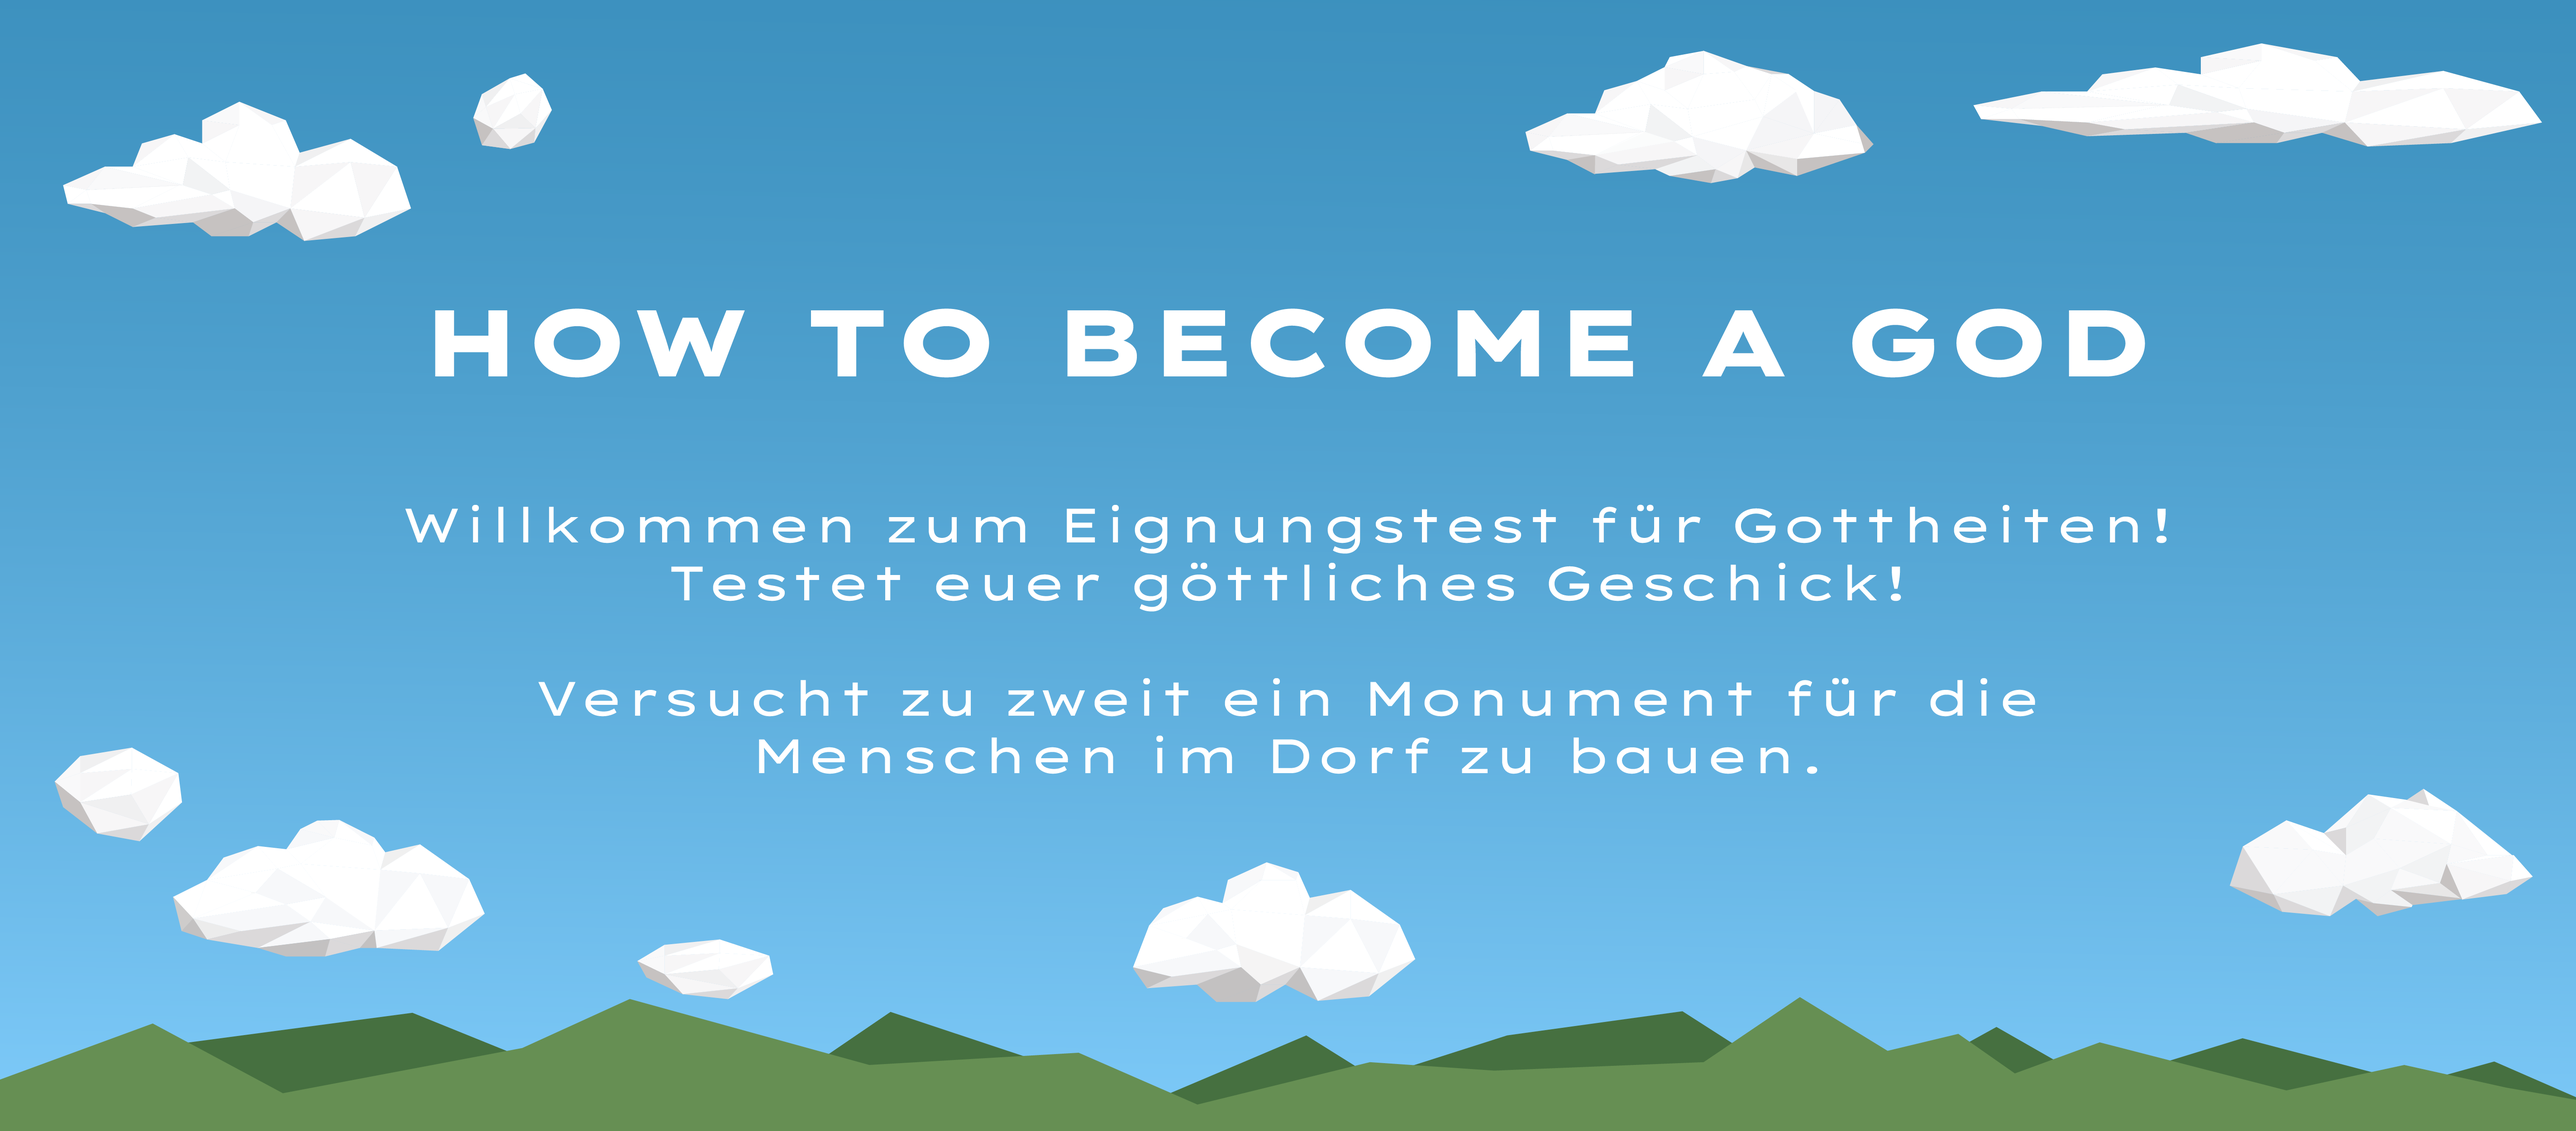
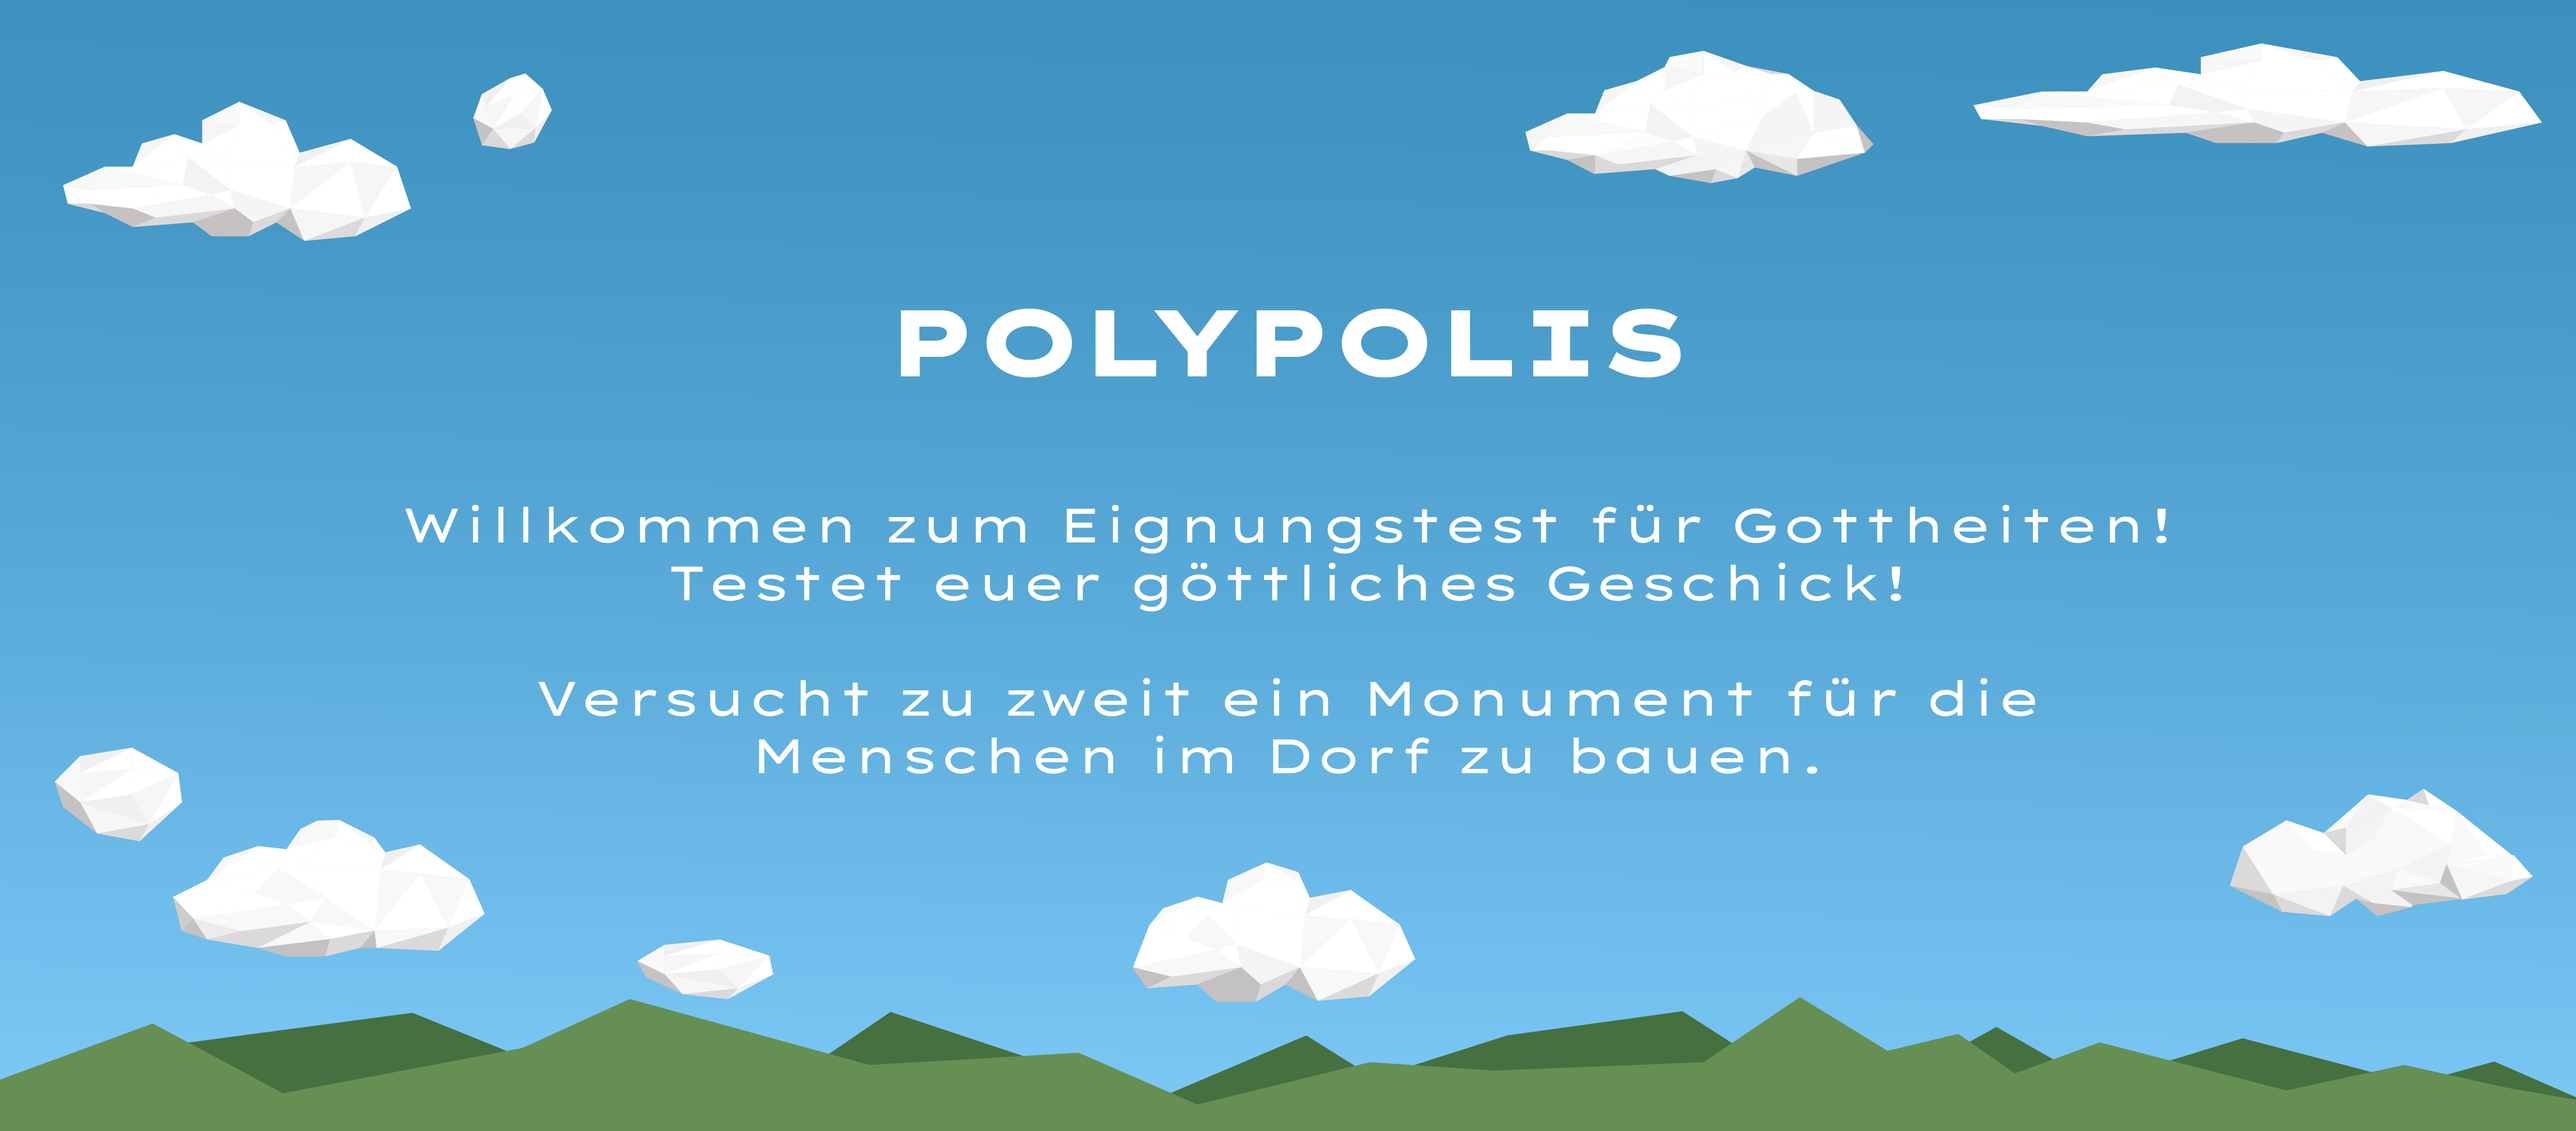
neuer titel

Changed region(s): [[0.1555, 0.2496, 0.8396, 0.3432]]

diff --git a/sketch.js b/sketch.js
@@ -76,7 +76,7 @@ function draw() {
     text(buttonText, windowWidth/6*5, windowHeight/9*8);
 
     textFont(LexendZettaBold);
-    text(prayersText, windowWidth/6*1, windowHeight/9*7);
+    text(prayersText, windowWidth/6*1, windowHeight/9*6.5);
 
     }
 
